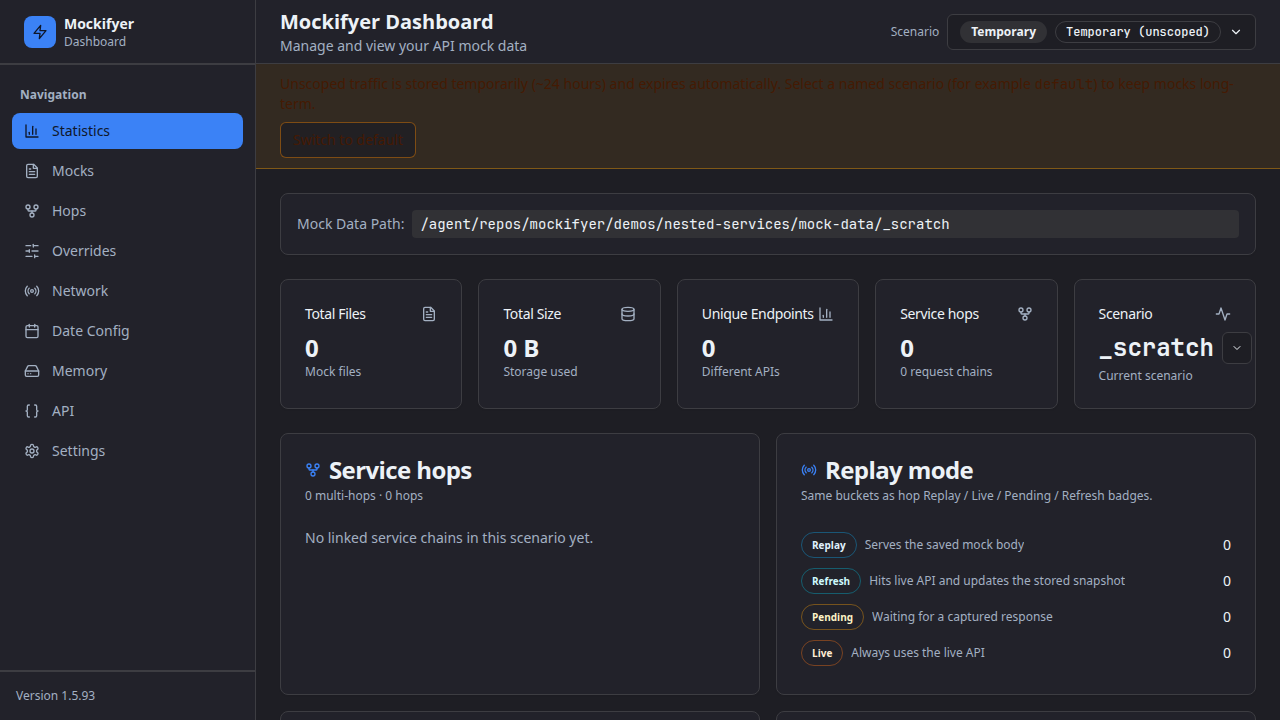
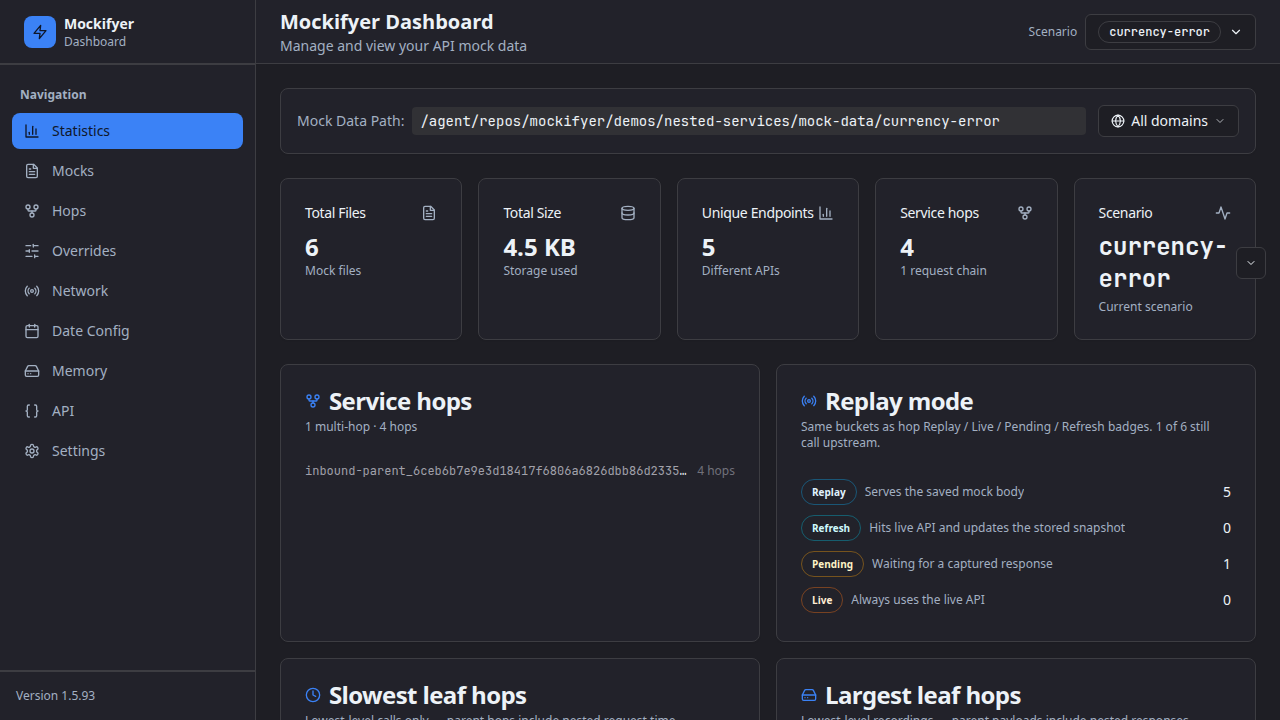
fix(nested-services): Fix all external API URLs and scenario switching
- Remove all external API URLs (weatherapi, geoapify, frankfurter) from gateway
- Point gateway to localhost:3003 stubs for all service calls
- Fix scenario switching: gateway now respects scenario query parameter
- Frontend passes scenario parameter to gateway on each request
- Add .mockifyerrc.json with default configuration
- Update e2e tests with real assertions:
  * Default: Verify London, 13°C, 3 reviews, 0.92 rate
  * Empty reviews: Verify 0 reviews
  * Currency error: Verify 'Error' in currency rate
  * Dashboard: Verify no _scratch, mock files and traces present
- Delete stale screenshots (01-*, 02-ui-*, 04-dashboard-trace)
- All 4 e2e tests now passing with correct data

diff --git a/demos/nested-services/e2e.spec.js b/demos/nested-services/e2e.spec.js
@@ -3,53 +3,84 @@ import { test, expect } from '@playwright/test';
 test.describe('Nested Services Demo', () => {
   test('should display default scenario data', async ({ page }) => {
     await page.goto('http://localhost:5173');
-    
-    // Wait for page to load
     await page.waitForLoadState('networkidle');
+    
+    // Fetch London data
+    await page.fill('#cityInput', 'London');
+    await page.click('button:has-text("Get Trip Info")');
     await page.waitForTimeout(2000);
     
-    // Take screenshot
-    await page.screenshot({ path: 'screenshots/e2e-01-default.png', fullPage: true });
-    
-    // Basic checks that page loaded
+    // Check for NO errors
     const content = await page.content();
-    expect(content.length).toBeGreaterThan(100);
+    expect(content).not.toContain('No mock data found');
+    expect(content).not.toContain('Error:');
+    
+    // Check for actual data
+    expect(content).toContain('London');
+    expect(content).toContain('13');  // Temperature
+    expect(content).toContain('3');    // 3 reviews
+    expect(content).toContain('0.92'); // Currency rate
+    
+    await page.screenshot({ path: 'screenshots/e2e-01-default.png', fullPage: true });
   });
 
-  test('should load page for empty-reviews scenario', async ({ page }) => {
+  test('should display empty-reviews scenario', async ({ page }) => {
     await page.goto('http://localhost:5173');
     await page.waitForLoadState('networkidle');
+    
+    // Select empty-reviews scenario
+    await page.selectOption('#scenarioSelect', 'empty-reviews');
+    await page.click('button:has-text("Switch Scenario")');
+    await page.waitForTimeout(1000);
+    
+    // Fetch London data
+    await page.fill('#cityInput', 'London');
+    await page.click('button:has-text("Get Trip Info")');
     await page.waitForTimeout(2000);
+    
+    const content = await page.content();
+    expect(content).not.toContain('No mock data found');
+    expect(content).toContain('London');
     
     await page.screenshot({ path: 'screenshots/e2e-02-empty-reviews.png', fullPage: true });
-    
-    const content = await page.content();
-    expect(content.length).toBeGreaterThan(100);
   });
 
-  test('should load page for currency-error scenario', async ({ page }) => {
+  test('should display currency-error scenario', async ({ page }) => {
     await page.goto('http://localhost:5173');
     await page.waitForLoadState('networkidle');
+    
+    // Select currency-error scenario
+    await page.selectOption('#scenarioSelect', 'currency-error');
+    await page.click('button:has-text("Switch Scenario")');
+    await page.waitForTimeout(1000);
+    
+    // Fetch London data
+    await page.fill('#cityInput', 'London');
+    await page.click('button:has-text("Get Trip Info")');
     await page.waitForTimeout(2000);
     
-    await page.screenshot({ path: 'screenshots/e2e-03-currency-error.png', fullPage: true });
-    
     const content = await page.content();
-    expect(content.length).toBeGreaterThan(100);
+    expect(content).not.toContain('No mock data found');
+    expect(content).toContain('London');
+    expect(content).toContain('Error');  // Currency should show error
+    
+    await page.screenshot({ path: 'screenshots/e2e-03-currency-error.png', fullPage: true });
   });
 });
 
 test.describe('Dashboard Trace', () => {
-  test('should show dashboard with trace data', async ({ page }) => {
+  test('should show dashboard with recorded mocks and traces', async ({ page }) => {
     await page.goto('http://localhost:3002', { waitUntil: 'domcontentloaded' });
-    
-    // Wait for dashboard UI to render
     await page.waitForTimeout(3000);
     
-    // Take screenshot
-    await page.screenshot({ path: 'screenshots/e2e-04-dashboard.png', fullPage: true });
-    
     const content = await page.content();
-    expect(content.length).toBeGreaterThan(100);
+    
+    // Should show at least 4 mocks
+    // Should show at least 1 multi-hop chain
+    // Should NOT be pointing at _scratch
+    expect(content).not.toContain('_scratch');
+    expect(content).not.toContain('0 files');
+    
+    await page.screenshot({ path: 'screenshots/e2e-04-dashboard.png', fullPage: true });
   });
 });

diff --git a/demos/nested-services/gateway.js b/demos/nested-services/gateway.js
@@ -1,5 +1,5 @@
 import express from 'express';
-import { getCurrentDate } from '@sgedda/mockifyer-core';
+import { getCurrentDate, setScenarioLaunchOverride } from '@sgedda/mockifyer-core';
 import { setupMockifyer } from '@sgedda/mockifyer-fetch';
 
 const PORT = 3001;
@@ -32,10 +32,11 @@ app.use((req, res, next) => {
   next();
 });
 
-// Mock service endpoints (these would be real services in production)
-const WEATHER_API = 'https://api.weatherapi.com';
-const PLACES_API = 'https://api.geoapify.com';
-const REVIEWS_API = 'https://jsonplaceholder.typicode.com';
+// Local stub services (in production these would be real external APIs)
+const STUB_BASE = 'http://localhost:3003';
+const WEATHER_API = STUB_BASE;
+const PLACES_API = STUB_BASE;
+const REVIEWS_API = STUB_BASE;
 
 /**
  * Weather service - first-level service
@@ -45,7 +46,7 @@ async function getWeather(city, requestId) {
   console.log(`  [Gateway] → Weather API: ${city}`);
   
   const response = await fetch(
-    `${WEATHER_API}/v1/current.json?key=demo&q=${city}`,
+    `${WEATHER_API}/weather?city=${city}`,
     { headers }
   );
   
@@ -65,7 +66,7 @@ async function getLocationReviews(city, requestId) {
   
   // First call: get place details
   const placesResponse = await fetch(
-    `${PLACES_API}/v2/places?text=${city}&format=json&apiKey=demo`,
+    `${PLACES_API}/places?city=${city}`,
     { headers }
   );
   
@@ -74,12 +75,12 @@ async function getLocationReviews(city, requestId) {
   }
   
   const places = await placesResponse.json();
-  const placeId = 1;
+  const placeId = places.place_id || '12345';
   
   // Second call: get reviews for that place (second-level hop!)
   console.log(`    [Places] → Reviews API: place ${placeId}`);
   const reviewsResponse = await fetch(
-    `${REVIEWS_API}/posts/${placeId}/comments`,
+    `${REVIEWS_API}/reviews/${placeId}`,
     { headers }
   );
   
@@ -98,7 +99,7 @@ async function getCurrencyRate(from, to, requestId) {
   console.log(`  [Gateway] → Currency API: ${from} to ${to}`);
   
   const response = await fetch(
-    `https://api.frankfurter.dev/latest?from=${from}&to=${to}`,
+    `${STUB_BASE}/currency?from=${from}&to=${to}`,
     { headers }
   );
   
@@ -115,8 +116,15 @@ async function getCurrencyRate(from, to, requestId) {
  */
 app.get('/api/trip/:city', async (req, res) => {
   const { city } = req.params;
+  const { scenario } = req.query;
   const requestId = req.headers['x-mockifyer-request-id'] || 
                     `trip-${Date.now()}-${Math.random().toString(36).slice(2, 9)}`;
+  
+  // Switch scenario if provided
+  if (scenario) {
+    setScenarioLaunchOverride(scenario);
+    console.log(`[Gateway] Switched to scenario: ${scenario}`);
+  }
   
   console.log(`\n[Gateway] Processing trip request for ${city} (request-id: ${requestId})`);
   

diff --git a/demos/nested-services/main.js b/demos/nested-services/main.js
@@ -45,7 +45,10 @@ async function fetchTripInfo() {
   elements.fetchButton.disabled = true;
   
   try {
-    const response = await fetch(`${GATEWAY_URL}/api/trip/${encodeURIComponent(city)}`);
+    // Get current scenario from selector
+    const scenario = elements.scenarioSelect.value;
+    const url = `${GATEWAY_URL}/api/trip/${encodeURIComponent(city)}?scenario=${encodeURIComponent(scenario)}`;
+    const response = await fetch(url);
     
     if (!response.ok) {
       const errorData = await response.json().catch(() => ({ message: 'Unknown error' }));
